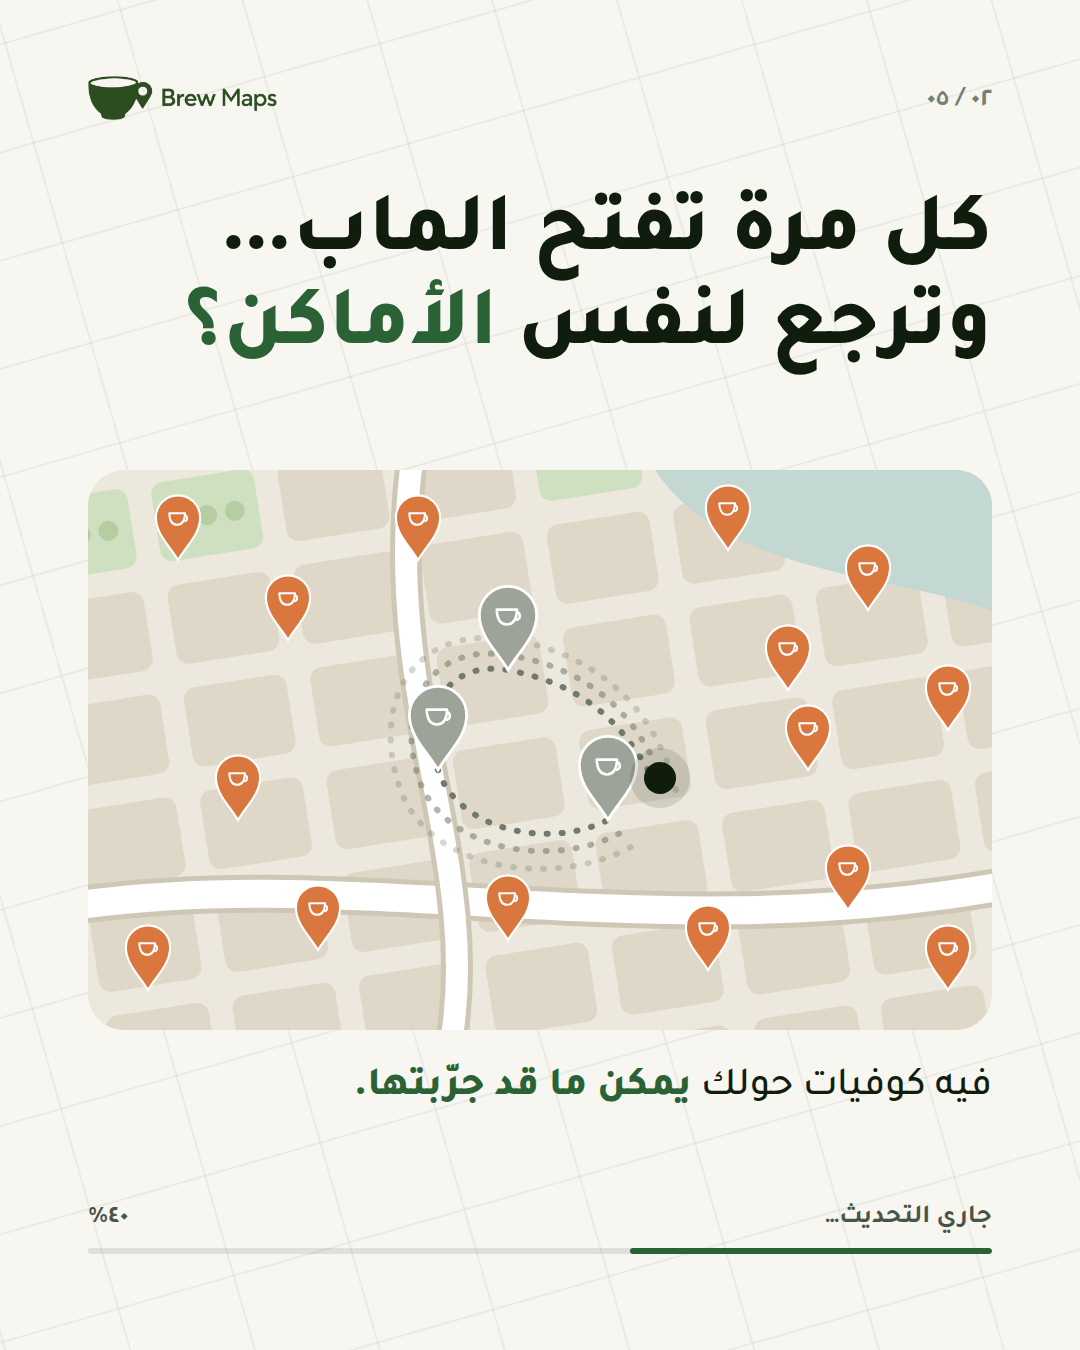
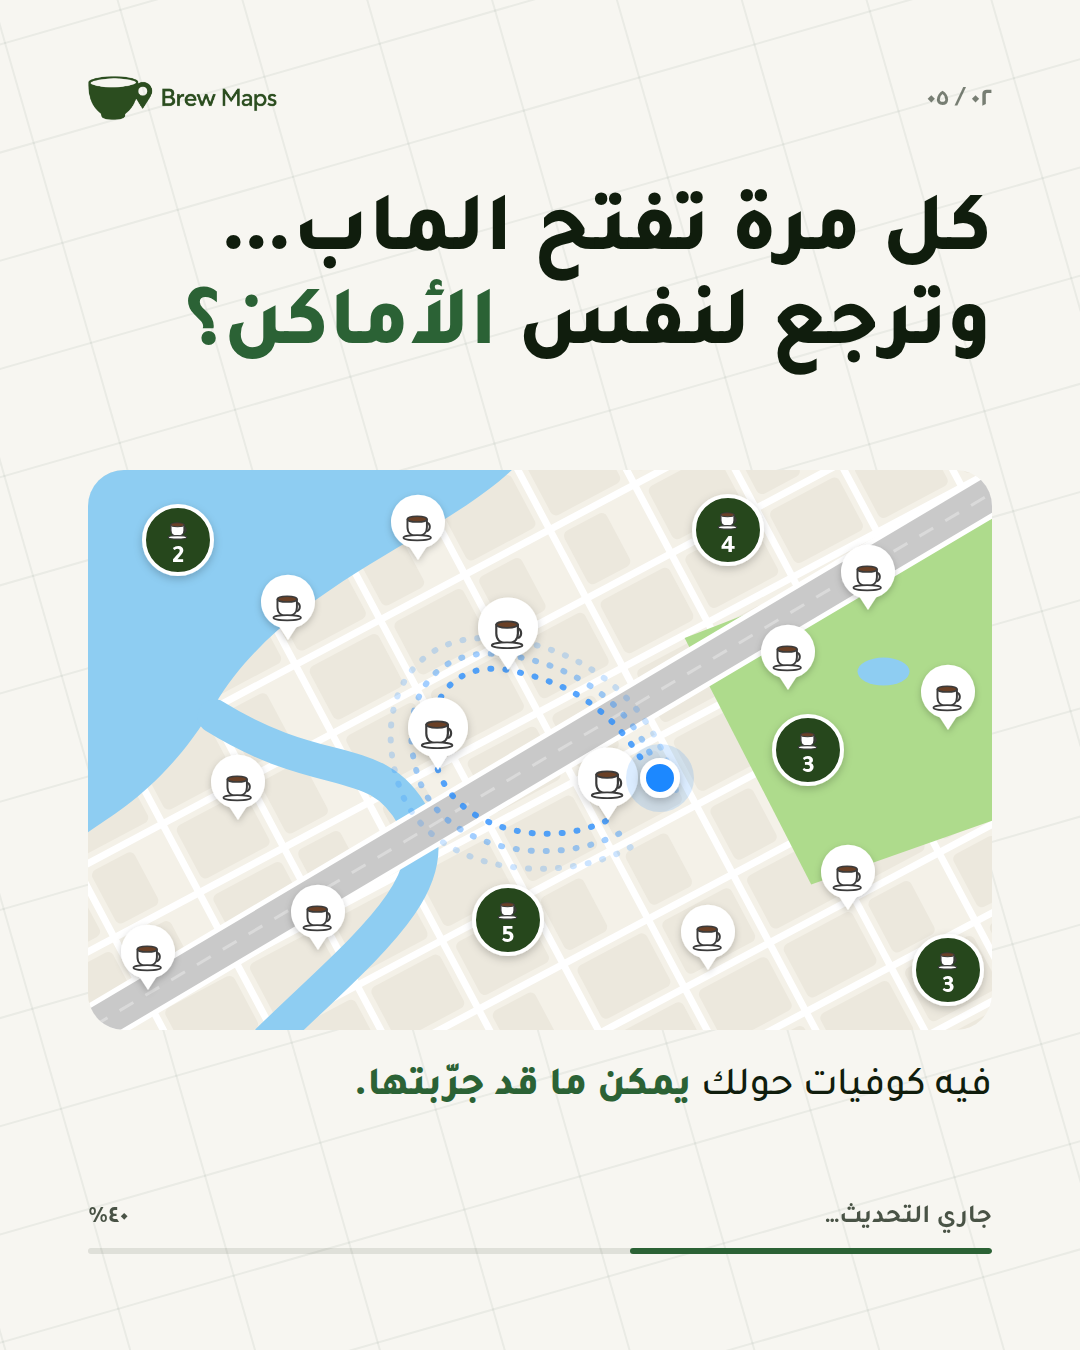
روتين قهوتك: maps redrawn in the app's own map style
Claude-Session: https://claude.ai/code/session_01UCKVHF8Bj15Neb29ir5cAN

Changed region(s): [[0.0611, 0.3422, 0.9167, 0.7778]]

diff --git a/marketing/posts/coffee-routine-update/slides.html b/marketing/posts/coffee-routine-update/slides.html
@@ -55,6 +55,12 @@ for (let y = -600; y < 2000; y += 104) el(gg, 'line', { x1:-800, y1:y, x2:1900, 
 const CUP = c => `<path d="M-22 -14 H22 C21 12 11 18 0 18 C-11 18 -21 12 -22 -14Z" fill="none" stroke="${c}" stroke-width="5.5" stroke-linejoin="round"/><path d="M22 -9 a9 9 0 0 1 0 17" fill="none" stroke="${c}" stroke-width="5.5" stroke-linecap="round"/>`;
 const PIN = (x, y, s, fill, stroke = 'none', cup = '#fff') => `<g transform="translate(${x} ${y}) scale(${s})"><path d="M0 0 C-9 -16 -26 -30 -26 -50 A26 26 0 1 1 26 -50 C26 -30 9 -16 0 0Z" fill="${fill}" stroke="${stroke}" stroke-width="2.5"/>${cup ? `<g transform="translate(-1 -49) scale(.42)">${CUP(cup)}</g>` : ''}</g>`;
 
+// the app's own map marks: white teardrop pins with a cup, dark-green clusters with a count, the blue you-dot
+const MUG = `<path d="M-13 -6 H11 V4 C11 11 6 15 -1 15 C-8 15 -13 11 -13 4Z" fill="#fff" stroke="#3A3A3A" stroke-width="2.4" stroke-linejoin="round"/><ellipse cx="-1" cy="-6" rx="12" ry="3.6" fill="#6B4026" stroke="#3A3A3A" stroke-width="2"/><path d="M11 -2 a6 6 0 0 1 0 11" fill="none" stroke="#3A3A3A" stroke-width="2.4"/><ellipse cx="-1" cy="17" rx="17" ry="3.2" fill="#fff" stroke="#3A3A3A" stroke-width="2"/>`;
+const APIN = (x, y, s = 1, o = 1) => `<g transform="translate(${x} ${y}) scale(${s})" opacity="${o}" filter="url(#psh)"><path d="M0 0 L-9 -14 A30 30 0 1 1 9 -14 Z" fill="#fff"/><g transform="translate(0 -40) scale(.9)">${MUG}</g></g>`;
+const CLU = (x, y, k, s = 1) => `<g transform="translate(${x} ${y}) scale(${s})" filter="url(#psh)"><circle r="34" fill="#25461C" stroke="#fff" stroke-width="4"/><g transform="translate(0 -12) scale(.55)">${MUG}</g><text y="22" text-anchor="middle" font-family="DM Sans" font-weight="700" font-size="26" fill="#fff">${k}</text></g>`;
+const YOU = (x, y) => `<circle cx="${x}" cy="${y}" r="34" fill="#1E88FF" opacity=".16"/><circle cx="${x}" cy="${y}" r="17" fill="#1E88FF" stroke="#fff" stroke-width="6" filter="url(#psh)"/>`;
+const PSH = `<filter id="psh" x="-60%" y="-60%" width="220%" height="220%"><feDropShadow dx="0" dy="3" stdDeviation="4" flood-color="#000" flood-opacity=".22"/></filter>`;
 const S = {
   // 1 · HOOK
   1: `<div style="position:absolute; top:300px; right:var(--M); display:flex; align-items:center; gap:14px; font-size:30px; font-weight:700; color:#A9D19A;">
@@ -66,19 +72,19 @@ const S = {
   2: `<div class="h" style="top:190px; font-size:84px;">كل مرة تفتح الماب…<br>وترجع لنفس <span class="em">الأماكن؟</span></div>
       <svg style="position:absolute; top:470px; left:var(--M);" width="904" height="560" viewBox="0 0 904 560">
         <defs><clipPath id="c2"><rect width="904" height="560" rx="36"/></clipPath>
-        <marker id="ar" markerWidth="10" markerHeight="10" refX="5" refY="5" orient="auto"><path d="M0 0 L10 5 L0 10Z" fill="#8F958B"/></marker></defs>
+        ${PSH}</defs>
         <g clip-path="url(#c2)">
           <g class="mb" data-w="904" data-h="560"></g>
           <!-- everything nearby you haven't tried: faint outline pins -->
           <g id="faint"></g>
           <!-- the same three places, round and round -->
-          <g fill="none" stroke="#6F7A6A" stroke-width="6" stroke-linecap="round" stroke-dasharray="1 14">
+          <g fill="none" stroke="#1E88FF" stroke-width="6" stroke-linecap="round" stroke-dasharray="1 14" opacity=".75">
             <path d="M560 300 C 520 230, 470 210, 420 200 C 360 190, 330 240, 350 300 C 370 360, 460 380, 520 350"/>
             <path d="M574 310 C 540 220, 470 190, 410 184 C 340 178, 306 240, 332 312 C 360 384, 470 398, 534 362" opacity=".55"/>
             <path d="M588 320 C 560 210, 470 170, 400 168 C 320 166, 282 240, 314 324 C 350 408, 480 416, 548 374" opacity=".3"/>
           </g>
-          ${PIN(420, 200, 1.1, '#9EA39A', '#fff')} ${PIN(350, 300, 1.1, '#9EA39A', '#fff')} ${PIN(520, 350, 1.1, '#9EA39A', '#fff')}
-          <circle cx="572" cy="308" r="16" fill="#101D0D"/><circle cx="572" cy="308" r="30" fill="#101D0D" opacity=".12"/>
+          ${APIN(420, 200)} ${APIN(350, 300)} ${APIN(520, 350)}
+          ${YOU(572, 308)}
         </g>
       </svg>
       <div class="sub" style="top:1060px; font-size:40px;">فيه كوفيات حولك <span class="em" style="font-weight:800">يمكن ما قد جرّبتها.</span></div>`,
@@ -97,18 +103,18 @@ const S = {
   4: `<div class="h" style="top:190px; font-size:84px; white-space:nowrap;">يمكن كوفيك المفضل…<br><span class="em">أقرب مما تتوقع.</span></div>
       <div class="sub" style="top:398px; font-size:40px;"><span class="latin" style="font-weight:700">BrewMaps</span> يلقى لك الكوفي اللي <span class="em" style="font-weight:800">يناسب ذوقك.</span></div>
       <svg style="position:absolute; top:510px; left:var(--M);" width="904" height="600" viewBox="0 0 904 600">
-        <defs><clipPath id="c4"><rect width="904" height="600" rx="36"/></clipPath></defs>
+        <defs><clipPath id="c4"><rect width="904" height="600" rx="36"/></clipPath>${PSH}</defs>
         <g clip-path="url(#c4)">
           <g class="mb" data-w="904" data-h="600"></g>
-          <g fill="#173D20" opacity=".05"><circle cx="452" cy="330" r="250"/></g>
-          <g fill="none" stroke="#173D20" stroke-width="2.5" stroke-dasharray="8 10" opacity=".4"><circle cx="452" cy="330" r="130"/><circle cx="452" cy="330" r="250"/></g>
+          <g fill="#1E88FF" opacity=".05"><circle cx="452" cy="330" r="250"/></g>
+          <g fill="none" stroke="#1E88FF" stroke-width="2.5" stroke-dasharray="8 10" opacity=".45"><circle cx="452" cy="330" r="130"/><circle cx="452" cy="330" r="250"/></g>
           <text x="452" y="186" text-anchor="middle" font-size="22" font-weight="700" fill="#173D20" opacity=".5">٥٠٠ م</text>
           <text x="452" y="66" text-anchor="middle" font-size="22" font-weight="700" fill="#173D20" opacity=".5">١ كم</text>
-          ${PIN(600, 420, 1.15, '#D9773F', '#fff')} ${PIN(205, 510, 1.15, '#D9773F', '#fff')} ${PIN(690, 180, 1.15, '#D9773F', '#fff')} ${PIN(160, 200, 1.15, '#D9773F', '#fff')}
-          <circle cx="452" cy="330" r="15" fill="#101D0D"/><circle cx="452" cy="330" r="30" fill="#101D0D" opacity=".12"/>
-          ${PIN(548, 296, 1.8, '#173D20', '#fff')}
+          ${APIN(600, 420)} ${APIN(205, 510)} ${APIN(690, 180)} ${APIN(160, 200)}
+          ${YOU(452, 330)}
+          <g transform="translate(548 296) scale(1.55)" filter="url(#psh)"><path d="M0 0 L-9 -14 A30 30 0 1 1 9 -14 Z" fill="#25461C" stroke="#fff" stroke-width="3"/><g transform="translate(0 -40) scale(.9)">${MUG}</g></g>
           <g font-family="Tajawal" font-weight="700" font-size="22" text-anchor="middle">
-            ${[[600,420,'٧٨٪'],[205,510,'٦٤٪'],[690,180,'٨٥٪'],[160,200,'٧١٪']].map(([x,y,t]) => `<rect x="${x+22}" y="${y-74}" width="64" height="34" rx="17" fill="#fff" stroke="#E2E0D8" stroke-width="1.5"/><text x="${x+54}" y="${y-50}" fill="#6F7A6A">${t}</text>`).join('')}
+            ${[[600,420,'٧٨٪'],[205,510,'٦٤٪'],[690,180,'٨٥٪'],[160,200,'٧١٪']].map(([x,y,t]) => `<rect x="${x+30}" y="${y-78}" width="66" height="34" rx="17" fill="#E6F0DF"/><text x="${x+63}" y="${y-54}" fill="#2B6235">${t}</text>`).join('')}
           </g>
         </g>
       </svg>
@@ -133,26 +139,31 @@ const S = {
 };
 document.getElementById('s').innerHTML = S[n];
 
-document.querySelectorAll('.mb').forEach(M => {
+document.querySelectorAll('.mb').forEach(M => {      // the app's map palette: cream land, blue water, green park, white streets, grey highway
   const w = +M.dataset.w, h = +M.dataset.h;
-  let sd = 3 + n; const r = () => (sd = (sd * 1664525 + 1013904223) >>> 0) / 4294967296;
-  el(M, 'rect', { width:w, height:h, fill:'#ECE8DD' });
-  const B = el(M, 'g', { transform:`rotate(-9 ${w / 2} ${h / 2})` });
-  for (let x = -160; x < w + 160; x += 128) for (let y = -160; y < h + 160; y += 104) {
-    const park = r() < .09;
-    el(B, 'rect', { x:x + 12, y:y + 12, width:104, height:80, rx:12, fill: park ? '#CFE0C0' : '#DFD8C8' });
-    if (park) for (let k = 0; k < 3; k++) el(B, 'circle', { cx:x + 36 + k * 28, cy:y + 52, r:10, fill:'#B4CEA2' });
-  }
-  el(M, 'path', { d:`M${w * .62} -10 C ${w * .7} ${h * .2}, ${w * .9} ${h * .18}, ${w + 10} ${h * .26} L ${w + 10} -10 Z`, fill:'#C3D8D2' });
-  for (const [d, cw, fw] of [[`M-20 ${h * .78} C ${w * .3} ${h * .7}, ${w * .62} ${h * .86}, ${w + 20} ${h * .74}`, 38, 28], [`M${w * .36} -20 C ${w * .32} ${h * .4}, ${w * .44} ${h * .7}, ${w * .4} ${h + 20}`, 32, 22]]) {
-    el(M, 'path', { d, fill:'none', stroke:'#CFC7B6', 'stroke-width':cw, 'stroke-linecap':'round' });
-    el(M, 'path', { d, fill:'none', stroke:'#FFFFFF', 'stroke-width':fw, 'stroke-linecap':'round' });
-  }
+  let sd = 5 + n; const r = () => (sd = (sd * 1664525 + 1013904223) >>> 0) / 4294967296;
+  el(M, 'rect', { width:w, height:h, fill:'#F4F1E8' });
+  const B = el(M, 'g', { transform:`rotate(-28 ${w / 2} ${h / 2})` });
+  for (let x = -300; x < w + 300; x += 96) for (let y = -300; y < h + 300; y += 78)
+    el(B, 'rect', { x:x + 9, y:y + 9, width:78 - (r() < .3 ? 30 : 0), height:60, rx:6, fill:'#ECE8DD' });
+  for (let x = -300; x < w + 300; x += 96) el(B, 'line', { x1:x, y1:-300, x2:x, y2:h + 300, stroke:'#fff', 'stroke-width':7 });
+  for (let y = -300; y < h + 300; y += 78) el(B, 'line', { x1:-300, y1:y, x2:w + 300, y2:y, stroke:'#fff', 'stroke-width':7 });
+  // the sea and a marina-style canal
+  el(M, 'path', { d:`M-10 -10 H${w * .48} C ${w * .4} ${h * .12}, ${w * .22} ${h * .2}, ${w * .14} ${h * .42} C ${w * .08} ${h * .58}, ${w * .02} ${h * .62}, -10 ${h * .66} Z`, fill:'#8ECDF2' });
+  el(M, 'path', { d:`M${w * .14} ${h * .44} C ${w * .26} ${h * .56}, ${w * .32} ${h * .5}, ${w * .36} ${h * .62} S ${w * .3} ${h * .86}, ${w * .2} ${h + 10}`, fill:'none', stroke:'#8ECDF2', 'stroke-width':34, 'stroke-linecap':'round' });
+  // a big park with a pond
+  el(M, 'path', { d:`M${w * .66} ${h * .3} L ${w + 10} ${h * .08} L ${w + 10} ${h * .62} L ${w * .8} ${h * .74} Z`, fill:'#AEDB8C' });
+  el(M, 'ellipse', { cx:w * .88, cy:h * .36, rx:26, ry:14, fill:'#8ECDF2' });
+  // the highway: grey band with white edges, running across
+  const hw = `M-20 ${h * 1.02} L ${w + 20} ${h * .02}`;
+  el(M, 'path', { d:hw, fill:'none', stroke:'#FFFFFF', 'stroke-width':44 });
+  el(M, 'path', { d:hw, fill:'none', stroke:'#C9C9C9', 'stroke-width':34 });
+  el(M, 'path', { d:hw, fill:'none', stroke:'#DADADA', 'stroke-width':3, 'stroke-dasharray':'16 14' });
 });
 if (n === 2) {   // caramel pins: the cafés nearby you've never opened
   const F = document.getElementById('faint');
   [[90,90],[200,170],[330,90],[640,80],[780,140],[860,260],[720,300],[150,350],[230,480],[420,470],[620,500],[760,440],[860,520],[60,520],[700,220]]
-    .forEach(([x, y]) => F.insertAdjacentHTML('beforeend', PIN(x, y, .85, '#D9773F', '#fff')));
+    .forEach(([x, y], i) => F.insertAdjacentHTML('beforeend', i % 3 === 0 ? CLU(x, y - 20, [2, 4, 3, 5, 3][(i / 3) % 5]) : APIN(x, y, .9)));
 }
 if (n === 3) {   // area tiles: real areas and the café counts the app shows; one selected
   const T = document.getElementById('tiles');

diff --git a/marketing/posts/coffee-routine-update/README.md b/marketing/posts/coffee-routine-update/README.md
@@ -5,8 +5,9 @@ HOOK → PROBLEM → SOLUTION → PAYOFF → CTA.
 
 System
 - Green bookends (1 and 5, `#173D20`, cream type); off-white middle (`#F7F6F1`), green the only accent.
-- A faint street grid under every slide; flat map drawings (blocks, park, water, main roads), no photos, no café names.
-- Pins: caramel `#D9773F` for cafés (untried on 2, matches on 4), grey for the usual places, BrewMaps green for the best match.
+- A faint street grid under every slide; flat map drawings, no photos, no café names.
+- Maps on 2 and 4 follow the app's own map: cream land, blue water, green park, white streets, grey highway;
+  white cup pins, dark-green clusters with counts, the blue you-dot, light-green match % pills.
 - The update installs as you swipe: a bar at the bottom fills 20 → 100% ("جاري التحديث…" → "تم التحديث").
 - One grid: 88px margins, logo top-left, slide number top-right, headline zone, visual zone, bar at the bottom.
 - Slide 3's area tiles use the real areas and café counts from the app's Browse by area screen (Jumeirah 24,
